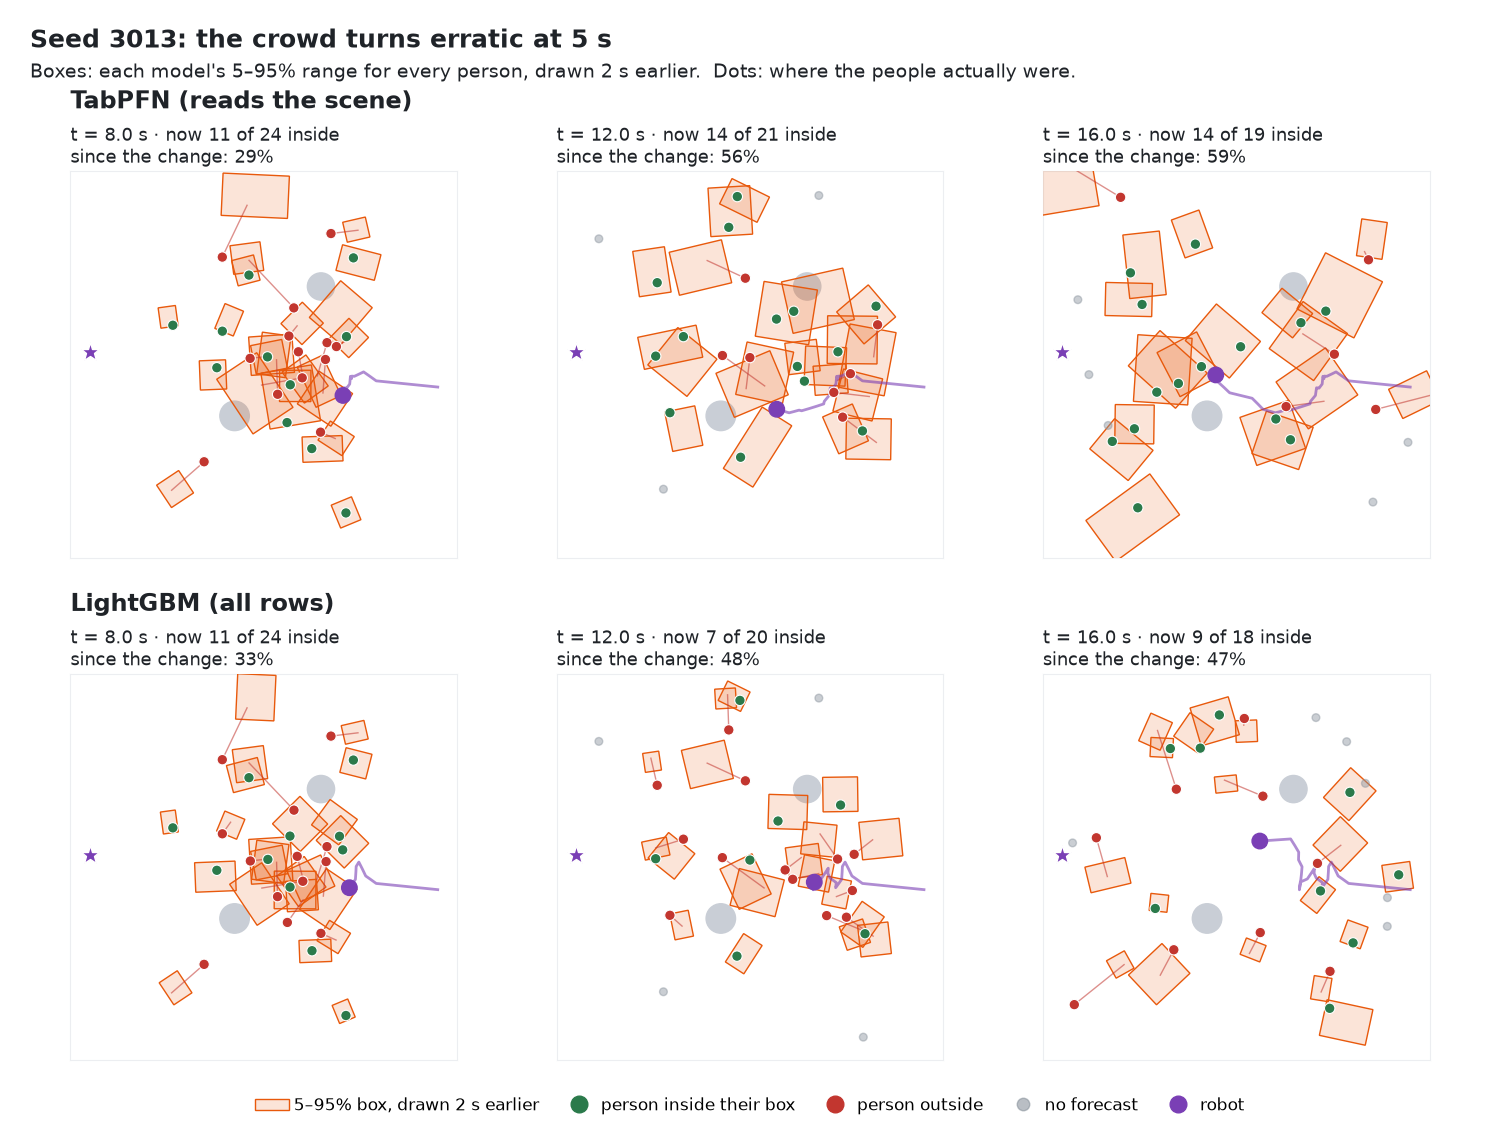
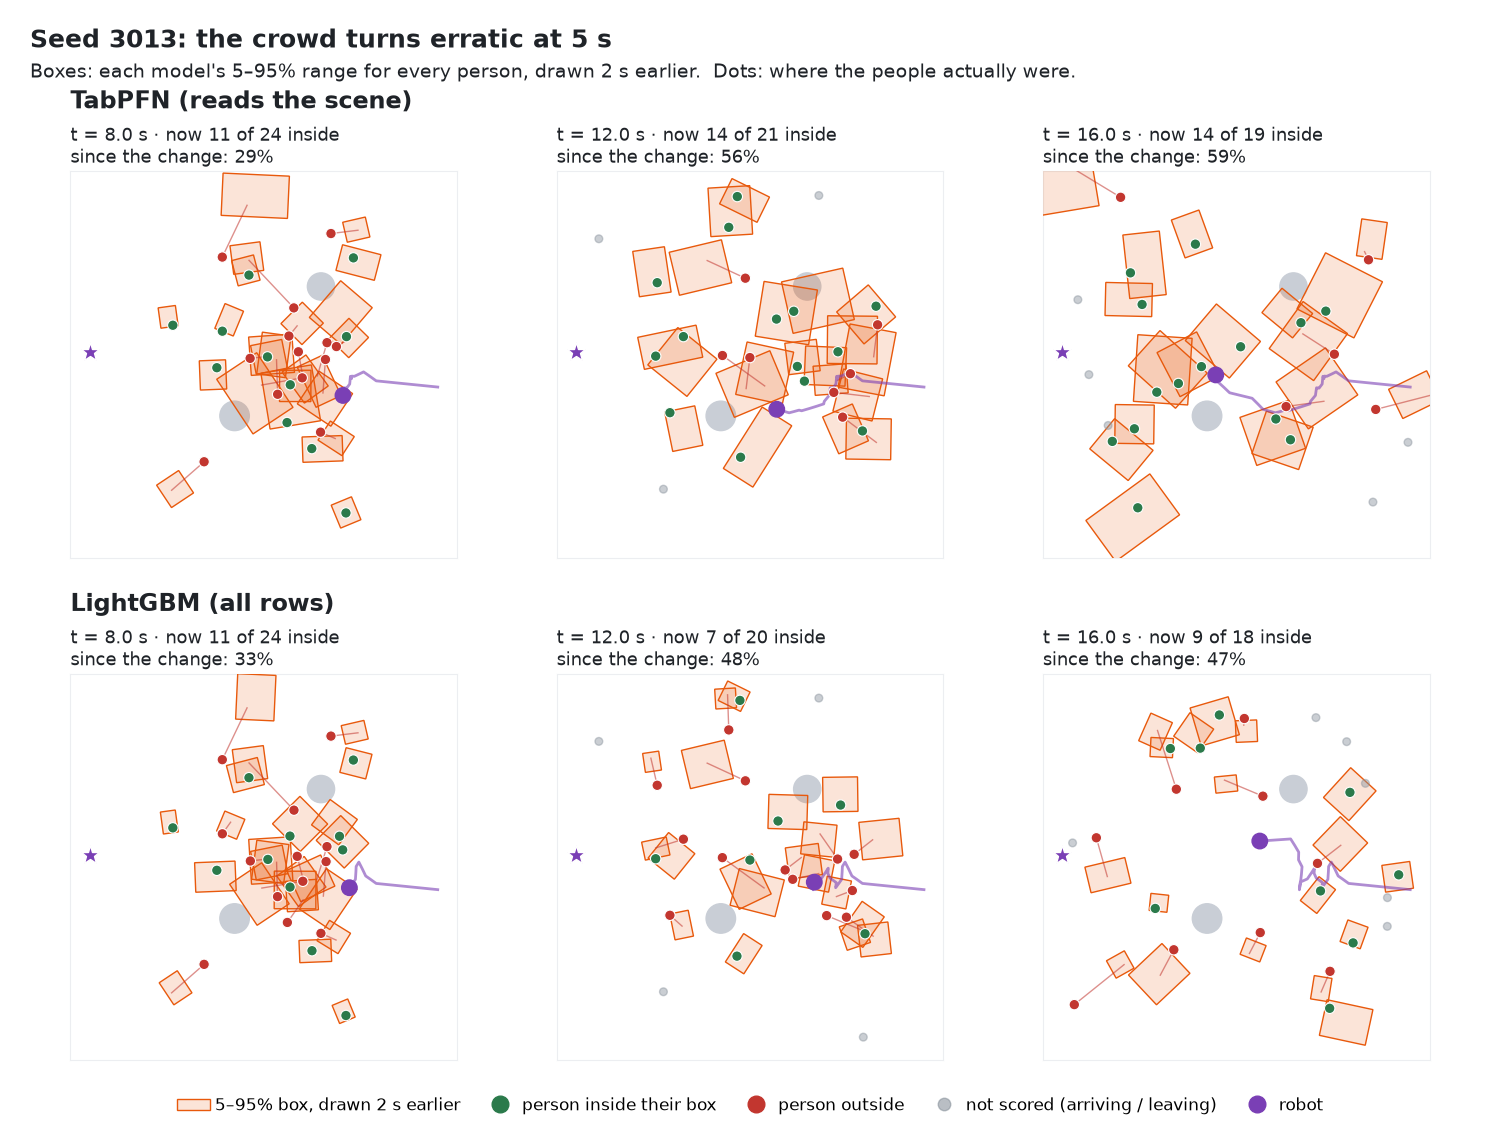
Calibration demo: grey people relabelled "not scored (arriving / leaving)", box width and interval score in the stats
Grey was "no forecast", but it also covered people the planner forecast who respawn (reach their
goal, new id) within 2 s and so have no outcome; run_closed drops both the same way. Stats JSON now
carries each planner's post-switch w90 / is90 / err (TabPFN boxes wider, 2.08 vs 1.48 m, but
lower interval score, 5.16 vs 6.53).

Changed region(s): [[0.1227, 0.9518, 0.8893, 0.9825]]

diff --git a/tools/render_calibration.py b/tools/render_calibration.py
@@ -10,8 +10,9 @@ tools/render_compare.py.
 What a frame at time T shows, per panel: the box each planner drew at its replan at T - 2 s for where each person would
 be at T (the RAW 5-95% box, q05/q95 along and across the person's heading, centred on the constant-velocity point;
 not the q15-85 box widened by the online offset that the planner steers with), and where each person actually is at T:
-green inside their box, red outside. People the planner had no forecast for are grey. Frames are 0.4 s apart (one per
-replan), so every box meets its own outcome.
+green inside their box, red outside. Grey people are not scored: in this crowd a person who reaches their goal respawns
+under a new id, so a new arrival has no track history yet (no forecast) and a person about to arrive has no 2 s outcome
+(run_closed drops both the same way). Frames are 0.4 s apart (one per replan), so every box meets its own outcome.
 
 Scoring is run_closed's in-loop claim-B rule exactly (Predictor.inloop_stats): truth rows from features.build_rows on
 the full episode history at h = 2 s, inner-merged on (agent_id, t); a forecast is "after the change" when it was MADE
@@ -128,7 +129,7 @@ def draw_panel(ax, R, T, args):
     st = state_at(R, T, args.dt)
     m = R["m"][np.isclose(R["m"].t, round(T - H, 6))]
     have = set(m.agent_id.astype(int))
-    for r in st[1:]:                                         # people with no scored forecast: grey
+    for r in st[1:]:                                         # not scored (just respawned / respawns within 2 s): grey
         if int(r["agent_id"]) not in have:
             out.append(ax.add_patch(Circle((r["x"], r["y"]), 0.2, color=C_MUTED, alpha=0.45, zorder=4)))
     for row in m.itertuples():
@@ -154,7 +155,7 @@ def legend(fig, y):
     fig.legend(handles=[Patch(facecolor=BOX_FC, edgecolor=C_PRED, label="5–95% box, drawn 2 s earlier"),
                         Line2D([], [], marker="o", ls="", color=C_GREEN, ms=12, label="person inside their box"),
                         Line2D([], [], marker="o", ls="", color=C_RED, ms=12, label="person outside"),
-                        Line2D([], [], marker="o", ls="", color=C_MUTED, alpha=0.6, ms=9, label="no forecast"),
+                        Line2D([], [], marker="o", ls="", color=C_MUTED, alpha=0.6, ms=9, label="not scored (arriving / leaving)"),
                         Line2D([], [], marker="o", ls="", color=C_ROBOT, ms=12, label="robot")],
                loc="center", bbox_to_anchor=(0.5, y), ncol=5, fontsize=12, frameon=False, handletextpad=0.3,
                columnspacing=1.4)
@@ -308,6 +309,7 @@ def main():
                      "t5_csv": t5,
                      "matches_t5": None if t5 is None else bool(abs(full - t5["inloop_cov90_post"]) < 1e-6
                                                                 and n_full == t5["inloop_n_post"]),
+                     "box_width_and_score_post": {k: float(res[f"inloop_{k}_post"]) for k in ("w90", "is90", "err")},
                      "wall_s": float(d["wall"])})
         t5s = "-" if t5 is None else f"{100 * t5['inloop_cov90_post']:.1f}% (n {t5['inloop_n_post']})"
         print(f"{label:<26} post-switch cov90: window to {a.t1:g} s {100 * win:.1f}% (n {n_win}), whole run "
@@ -325,6 +327,12 @@ def main():
              "post_definition": "forecast made at t >= switch_t (so the first post forecasts come due at switch_t + 2 s)",
              "nominal_joint_coverage": "a 5-95% interval on each of two axes covers ~0.9 x 0.9 = 81% jointly if "
                                        "calibrated and independent",
+             "box_width_and_score_post_meaning": "run_episode's in-loop aggregates after the switch: w90 = mean 5-95% "
+                                                 "width per axis (m), is90 = interval score (width + 20 x miss "
+                                                 "distance; lower is better, so wider boxes do not win it for free), "
+                                                 "err = median error of the median forecast (m)",
+             "grey_people": "not scored: a person who reaches their goal respawns under a new id; new arrivals have no "
+                            "forecast yet and people about to arrive have no 2 s outcome (dropped the same way in T5)",
              "planners": rows}
     Path(f"{out}_stats.json").write_text(json.dumps(stats, indent=1, default=str), encoding="utf-8")
     draw_strip(runs, base, f"{out}_strip.png", a.strip)
